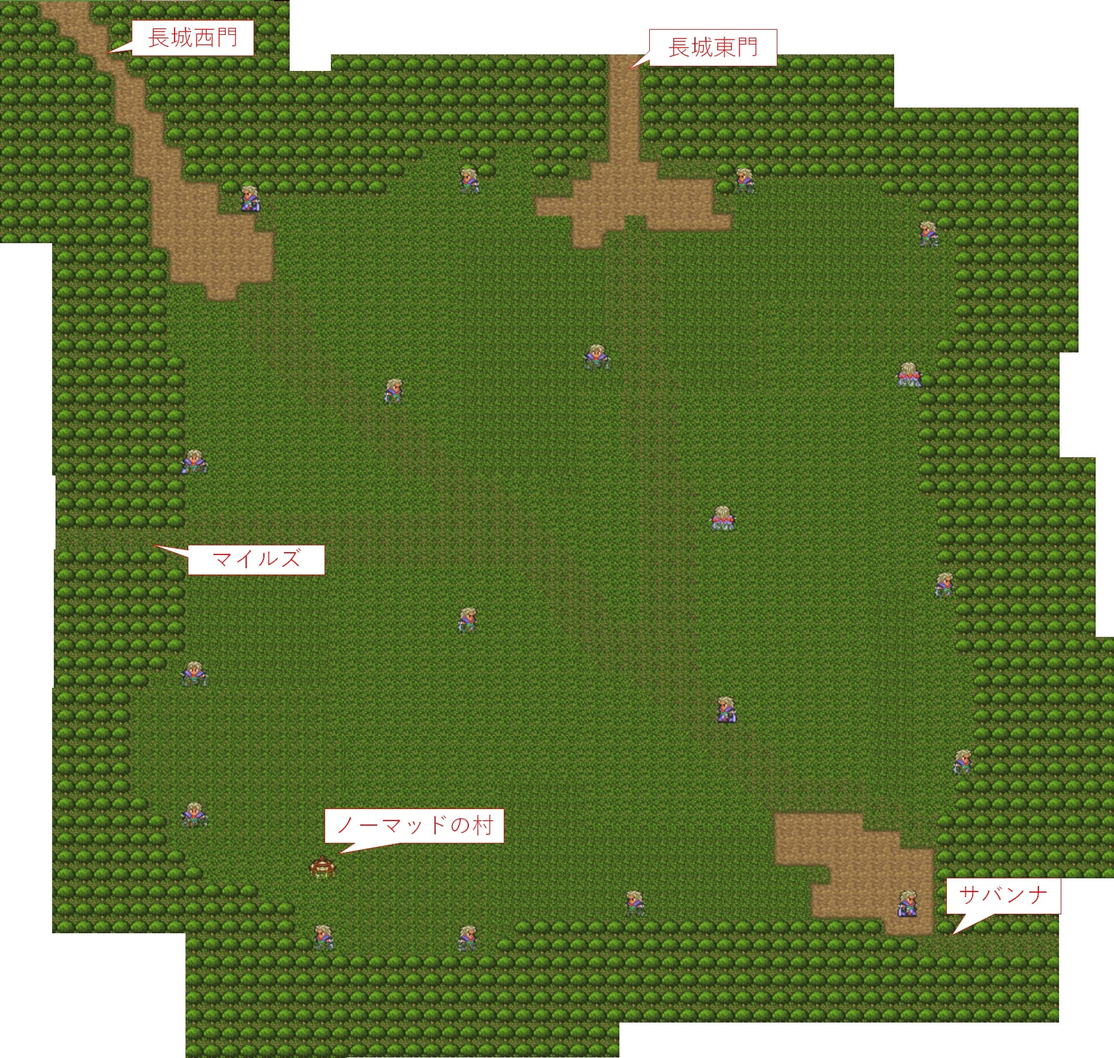
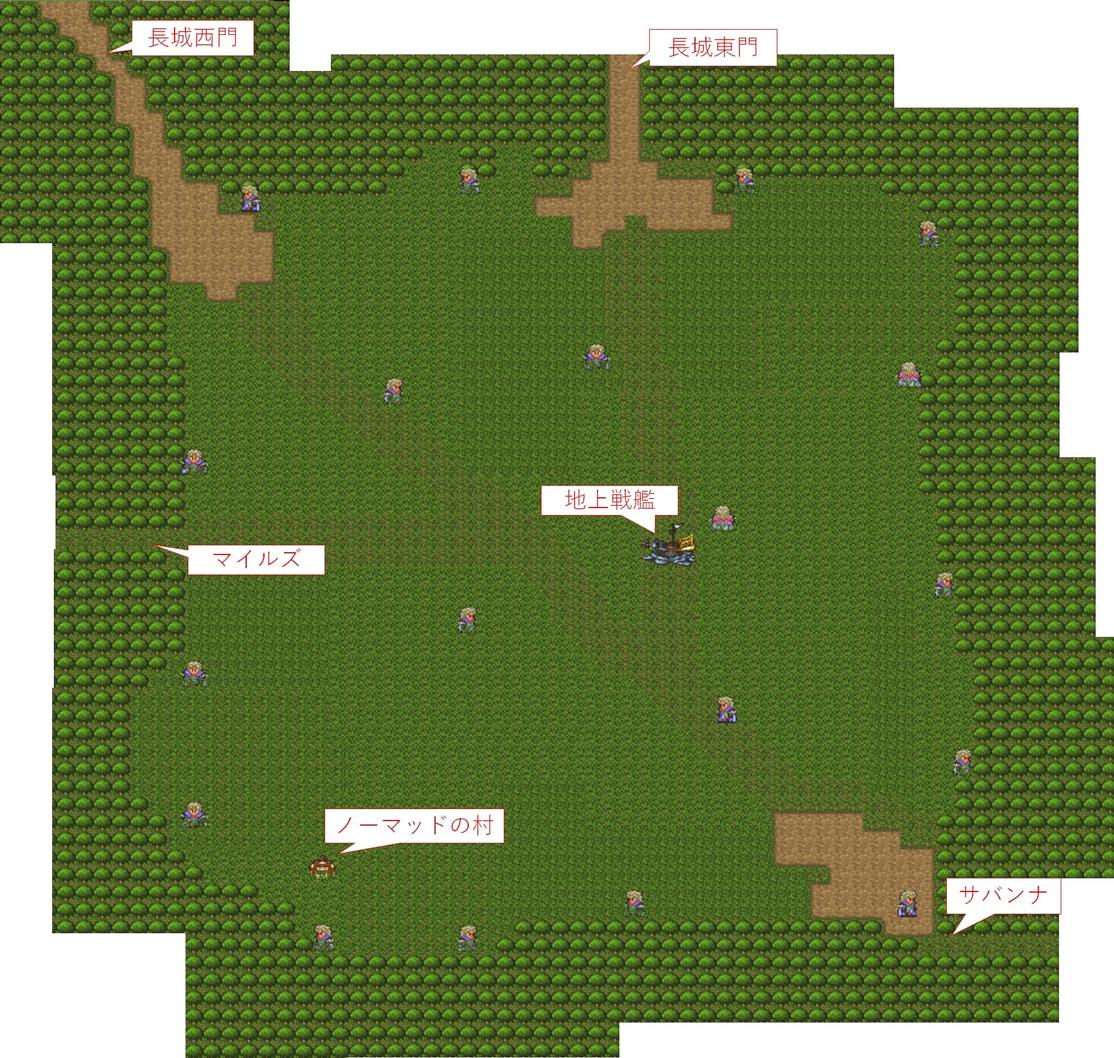
ノーマッド（女）の記事修正

Changed region(s): [[0.4625, 0.4316, 0.6475, 0.5549]]

diff --git a/contents/romasaga2/charas/nomad/nomad_woman.html b/contents/romasaga2/charas/nomad/nomad_woman.html
@@ -232,9 +232,7 @@
         ※6 閃：閃き適正。適正毎の閃き可能な技の一覧は<a href="../../skill/skill_list.html" target="_blank">こちら</a><br>
 
         <br>
-        殆どのキャラクタの器用さが高目に設定されており、弓の閃き適正を持つキャラクタが多いことがわかります。<br>
-        （ロマサガ2全キャラのステータス一覧は<a href="../status_list.html" target="_blank">ステータス一覧</a>参照。「器」のところを見れば比較的高めに設定されていることがわかると思います）。<br>
-        また、全キャラ斧・棍棒・弓の技能に優れています。<br>
+        殆どのキャラクタの器用さが高目に設定されており、弓の閃き適正を持つキャラクタが多いことがわかります（右のリンクの<a href="../status_list.html" target="_blank">ステータス一覧</a>の「器」のところを見れば比較的高めに設定されていることがわかると思います）。また、全キャラ斧・棍棒・弓の技能に優れています。<br>
         しかし特徴的（というか、ノーマッド（女）の中では変異種的）なのは表の赤字部分。<br>
         ファティマは魔力＋理力の値がロマサガ2の中で最も高いキャラクターです。このため、ロマサガ2のリマスター版で登場する「陰陽師」を除けば、冥の合成術で最強の威力をたたき出すことができます。<br>
         しかし、そもそも冥合成術は威力がそんなに高くないのでそこまでダメージを出せるわけでもない。以下はファティマにサンドストーム（＋シャドウサーバント）を使わせてみた動画。<br>
@@ -256,15 +254,15 @@
         <img src="img/nomad_woman/fatima_equip_sandstorm.jpg" width="300">
 
         <br><br>
-        アリアはノーマッド（女）の中では最高の術威力のため、下手な術士よりも高威力の術を放つことができます。この術威力40という値は、全キャラ中16位で、ホーリーオーダー（女）のアガタ、バルバラと同じ値です。<br>
+        アリアはノーマッド（女）の中では最高の術威力を有しており、下手な術士よりも高いダメージを出すことができます。アリアの術威力40という値は全キャラ中16位で、ホーリーオーダー（女）のアガタ、バルバラと同じ値です。<br>
         （参考：<a href="../status_list.html" target="_blank">ステータス一覧</a>。「術」のところを見れば術士としての適正が高いことがわかると思います）<br>
-        ただし初期状態では全術レベル0なので、術士として使う場合はイチから育てる必要があります。<br>
+        ただし、上の表で術法が「なし」となっていることからもわかるように、メンバーに加えたときは全術レベル0です。術士として使う場合はイチから育てる必要があります。<br>
 
         <br>
-        ノーマッド（女）キャラクター名の由来は「千夜一夜物語（アラビアン・ナイト）」です。キャラクタ毎の由来は各キャラ参照。<br>
+        ノーマッド（女）キャラクター名の由来は「千夜一夜物語（アラビアン・ナイト）」です。キャラクタ毎の由来は各キャラの項目を参照してください。<br>
 
         <br>
-        ここから先は、キャラクタごとにロマサガ2、エンペラーズサガ（エンサガ）、インペリアルサガ（旧インサガ）、インペリアルサガエクリプス（インサガEC）、ロマサガRSでの各キャラクタについて見ていきます。
+        ここから先は、キャラクタ毎にロマサガ2、エンペラーズサガ（エンサガ）、インペリアルサガ（旧インサガ）、インペリアルサガエクリプス（インサガEC）、ロマサガRSでの各キャラクタについて見ていきます。
 
         <br><br>
         <!-- Google dsense -->
@@ -338,7 +336,7 @@
           </table>
 
           <br>
-          ロマサガ2のビーストスレイヤー、でたらめ矢、アローレイン、バラージシュートのエフェクトはこんな感じです。<br>
+          参考までに、ロマサガ2のビーストスレイヤー、でたらめ矢、アローレイン、バラージシュートのエフェクトはこんな感じです。<br>
           <div class="youtube">
             <iframe width="560" height="315" src="https://www.youtube.com/embed/RQVCXsfjAtk" title="YouTube video player" frameborder="0" allow="accelerometer; autoplay; clipboard-write; encrypted-media; gyroscope; picture-in-picture" allowfullscreen></iframe>
           </div>
@@ -405,13 +403,13 @@
           </table>
         </p>
 
-        ロマサガ2のビーストスレイヤーと瞬速の矢のエフェクト（狙い撃ちは原作ロマサガ2には存在しない）<br>
+        参考までに、ロマサガ2のビーストスレイヤーと瞬速の矢のエフェクトは以下の動画のような感じでした（狙い撃ちは原作ロマサガ2には存在しない）。<br>
         <div class="youtube">
           <iframe width="560" height="315" src="https://www.youtube.com/embed/mba01QUeQCA" title="YouTube video player" frameborder="0" allow="accelerometer; autoplay; clipboard-write; encrypted-media; gyroscope; picture-in-picture" allowfullscreen></iframe>
         </div>
 
         <br><br>
-        ロマサガRSの狙い撃ち、ビーストスレイヤー、瞬速の矢のエフェクト<br>
+        ロマサガRSの狙い撃ち、ビーストスレイヤー、瞬速の矢のエフェクトかこんな感じ。<br>
         <iframe width="560" height="600" src="https://www.youtube.com/embed/7T3mYShcFJc" title="YouTube video player" frameborder="0" allow="accelerometer; autoplay; clipboard-write; encrypted-media; gyroscope; picture-in-picture" allowfullscreen></iframe>
 
         <br><br>
@@ -708,6 +706,9 @@
         <p>
           千一夜物語全体の主人公。
         </p>
+
+        <br>
+        参考：
         <ul>
           <li>Wikipedia 千夜一夜物語のあらすじ：<a href="https://ja.wikipedia.org/wiki/%E5%8D%83%E5%A4%9C%E4%B8%80%E5%A4%9C%E7%89%A9%E8%AA%9E%E3%81%AE%E3%81%82%E3%82%89%E3%81%99%E3%81%98#%E3%82%B7%E3%83%A3%E3%83%8F%E3%83%AA%E3%83%A4%E3%83%BC%E3%83%AB%E7%8E%8B%E3%81%A8%E5%BC%9F%E3%82%B7%E3%83%A3%E3%83%8F%E3%82%B6%E3%83%9E%E3%83%BC%E3%83%B3%E7%8E%8B%E3%81%A8%E3%81%AE%E7%89%A9%E8%AA%9E" target="_blank">シャハリヤール王と弟シャハザマーン王との物語</a></li>
           <li>Wikipedia シャハラザード：<a href="https://ja.wikipedia.org/wiki/%E3%82%B7%E3%82%A7%E3%83%98%E3%83%A9%E3%82%B6%E3%83%BC%E3%83%89" target="_blank">シャハラザード（シェヘラザード）</a></li>
@@ -727,7 +728,7 @@
             <li><a href="http://epsaga.sapp-db.com/zukan_det.php?no=794&tid=2" target="_blank">エンサガDB | 戦士一覧</a></li>
           </ul>
 
-          <br>
+          <br><br>
           <table border="2">
             <tr>
               <th>使用可能技</th>
@@ -806,6 +807,15 @@
     </section><!-- section class="box" -->
 
     <footer>
+      <p class="rights">
+        © 1993,2010,2016,2017 SQUARE ENIX CO., LTD. All Rights Reserved.<br>
+        Planned & Developed by ArtePiazza<br>
+        ILLUSTRATION:TOMOMI KOBAYASHI<br>
+        CG Illustration : ArtePiazza<br>
+        当該作品の転載・配布は禁止いたします。<br>
+        注：本サイトは上記権利者の協力・要請のもとに作成されたものではありません。<br>
+      </p>
+
       <span class="pr"><a href="https://template-party.com/" target="_blank">《Web Design:Template-Party》</a></span>
     </footer>
 

diff --git a/contents/romasaga2/charas/nomad/nomad.html b/contents/romasaga2/charas/nomad/nomad.html
@@ -144,11 +144,11 @@
         <img src="img/map_detail_kitarongit.jpg" width="300"><br>
 
         <br>
-        ステップの詳細マップは以下。左下に小さく見えるのがノーマッドの村です。<br>
+        ステップの詳細マップは以下。真ん中近くにある地上戦艦の中にはボクオーンがいます。左下に小さく見えるのがノーマッドの村です。<br>
         <img src="img/step_whole_map.jpg" width="800"><br>
 
         <br>
-        あんまりよくわかってないんですけど、これってモンゴルの移動式住居みたいなものなんですかね？<br>
+        あんまりよくわかってないんですけど、ノーマッドの村ってモンゴルの移動式住居みたいなものなんですかね？<br>
         <img src="img/mongol_gel.jpg" width="400"><br>
         ※写真は<a href="https://ieny.jp/post/82" target="_blank">環境にあわせた世界の家づくり～モンゴル、インドネシア、コンゴ編</a>より抜粋<br>
 
@@ -239,10 +239,22 @@
       <!--
       <a target="_blank"  href="https://www.amazon.co.jp/gp/product/B01CTCWSU6/ref=as_li_tl?ie=UTF8&camp=247&creative=1211&creativeASIN=B01CTCWSU6&linkCode=as2&tag=sagamax-22&linkId=71b6d392a525d8434daa6d4619d94051"><img border="0" src="//ws-fe.amazon-adsystem.com/widgets/q?_encoding=UTF8&MarketPlace=JP&ASIN=B01CTCWSU6&ServiceVersion=20070822&ID=AsinImage&WS=1&Format=_SL250_&tag=sagamax-22" ></a><img src="//ir-jp.amazon-adsystem.com/e/ir?t=sagamax-22&l=am2&o=9&a=B01CTCWSU6" width="1" height="1" border="0" alt="" style="border:none !important; margin:0px !important;" />
       -->
+
     </section><!-- section class="box" -->
 
     <footer>
-      <span class="pr"><a href="https://template-party.com/" target="_blank">《Web Design:Template-Party》</a></span>
+      <p class="rights">
+        © 1993,2010,2016,2017 SQUARE ENIX CO., LTD. All Rights Reserved.<br>
+        Planned & Developed by ArtePiazza<br>
+        ILLUSTRATION:TOMOMI KOBAYASHI<br>
+        CG Illustration : ArtePiazza<br>
+        当該作品の転載・配布は禁止いたします。<br>
+        注：本サイトは上記権利者の協力・要請のもとに作成されたものではありません。<br>
+      </p>
+
+      <span class="pr">
+        <a href="https://template-party.com/" target="_blank">《Web Design:Template-Party》</a>
+      </span>
     </footer>
 
   </div><!--/#main-->

diff --git a/contents/romasaga2/charas/status_list.html b/contents/romasaga2/charas/status_list.html
@@ -571,6 +571,15 @@ function sortStrD(a, b){
     </section><!-- section class="box" -->
 
     <footer>
+      <p class="rights">
+        © 1993,2010,2016,2017 SQUARE ENIX CO., LTD. All Rights Reserved.<br>
+        Planned & Developed by ArtePiazza<br>
+        ILLUSTRATION:TOMOMI KOBAYASHI<br>
+        CG Illustration : ArtePiazza<br>
+        当該作品の転載・配布は禁止いたします。<br>
+        注：本サイトは上記権利者の協力・要請のもとに作成されたものではありません。<br>
+      </p>
+
       <span class="pr"><a href="https://template-party.com/" target="_blank">《Web Design:Template-Party》</a></span>
     </footer>
 

diff --git a/css/style.css b/css/style.css
@@ -600,6 +600,13 @@ footer {
 .home footer {padding-bottom: 10px;}
 footer a {text-decoration: none;}
 
+/* 権利表記 */
+footer p.rights {
+	color: #000;
+	font-size: 12px;
+	text-align: left;
+}
+
 /*「更新情報・お知らせ」ブロック
 ---------------------------------------------------------------------------*/
 /*見出しを含まないお知らせブロック*/
@@ -974,6 +981,8 @@ header .icon img {
 /*footerブロック
 ---------------------------------------------------------------------------*/
 footer {padding-bottom: 100px;}
+
+/* web desing template の PR */
 footer .pr {display: block;}
 
 /*「更新情報・お知らせ」ブロック

diff --git a/contents/romasaga2/skill/skill_list.html b/contents/romasaga2/skill/skill_list.html
@@ -396,6 +396,15 @@
       </section><!-- section class="box" -->
 
     <footer>
+      <p class="rights">
+        © 1993,2010,2016,2017 SQUARE ENIX CO., LTD. All Rights Reserved.<br>
+        Planned & Developed by ArtePiazza<br>
+        ILLUSTRATION:TOMOMI KOBAYASHI<br>
+        CG Illustration : ArtePiazza<br>
+        当該作品の転載・配布は禁止いたします。<br>
+        注：本サイトは上記権利者の協力・要請のもとに作成されたものではありません。<br>
+      </p>
+
       <span class="pr"><a href="https://template-party.com/" target="_blank">《Web Design:Template-Party》</a></span>
     </footer>
 

diff --git a/contents/romasaga2/index_romasaga2.html b/contents/romasaga2/index_romasaga2.html
@@ -119,6 +119,15 @@
     </section><!-- section class="box" -->
 
     <footer>
+      <p class="rights">
+        © 1993,2010,2016,2017 SQUARE ENIX CO., LTD. All Rights Reserved.<br>
+        Planned & Developed by ArtePiazza<br>
+        ILLUSTRATION:TOMOMI KOBAYASHI<br>
+        CG Illustration : ArtePiazza<br>
+        当該作品の転載・配布は禁止いたします。<br>
+        注：本サイトは上記権利者の協力・要請のもとに作成されたものではありません。<br>
+      </p>
+
       <span class="pr"><a href="https://template-party.com/" target="_blank">《Web Design:Template-Party》</a></span>
     </footer>
 
